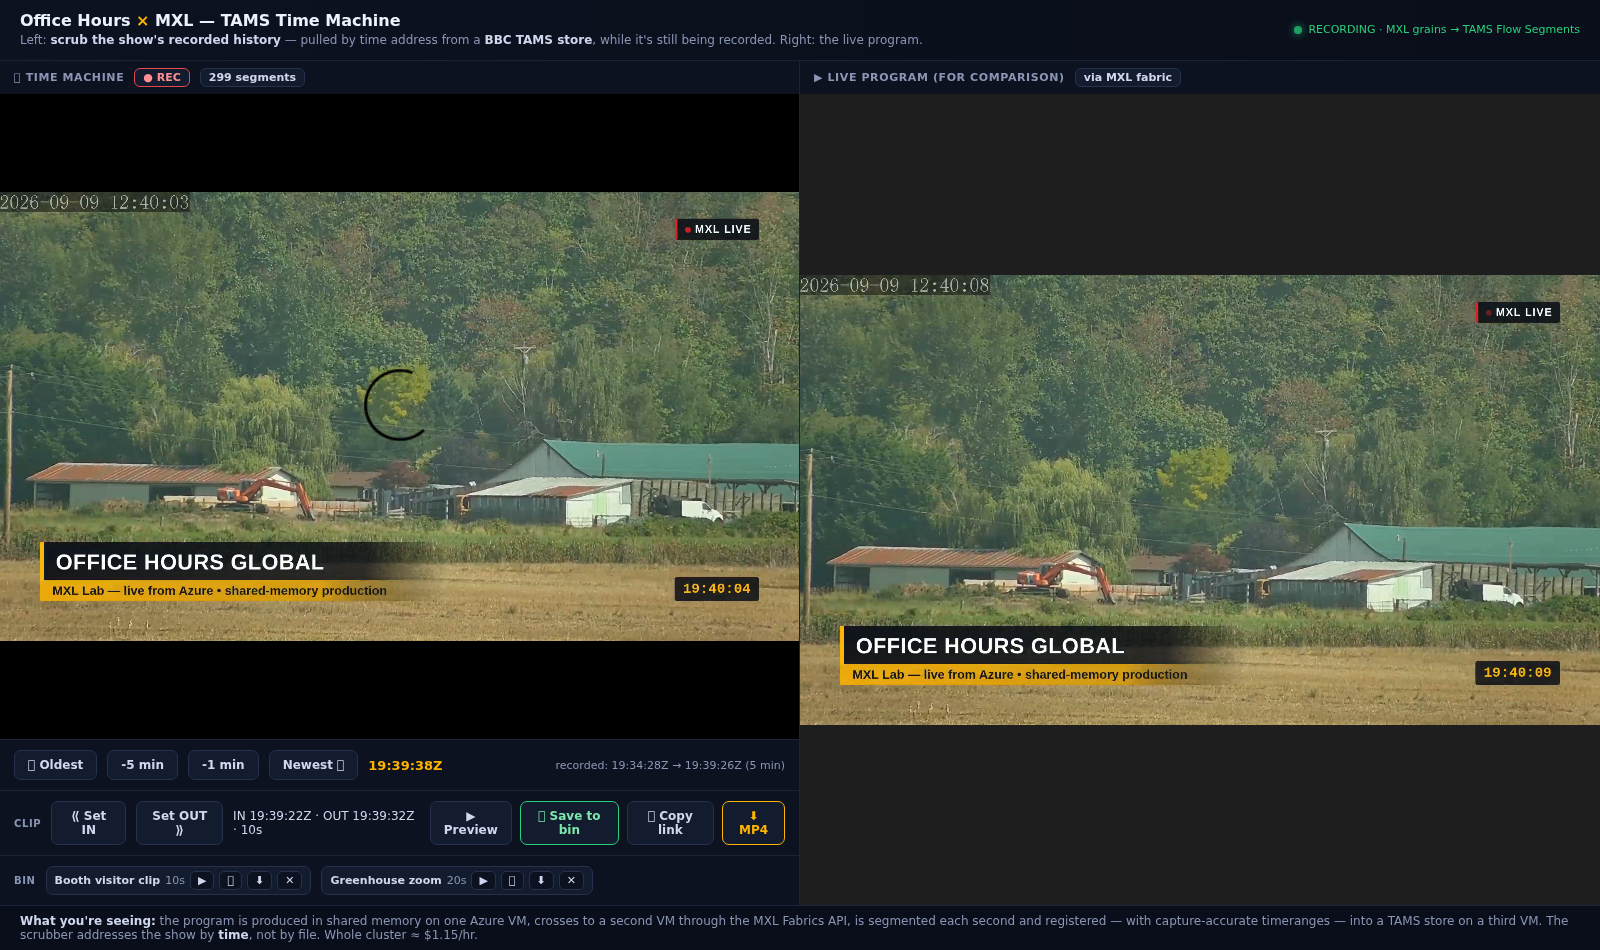
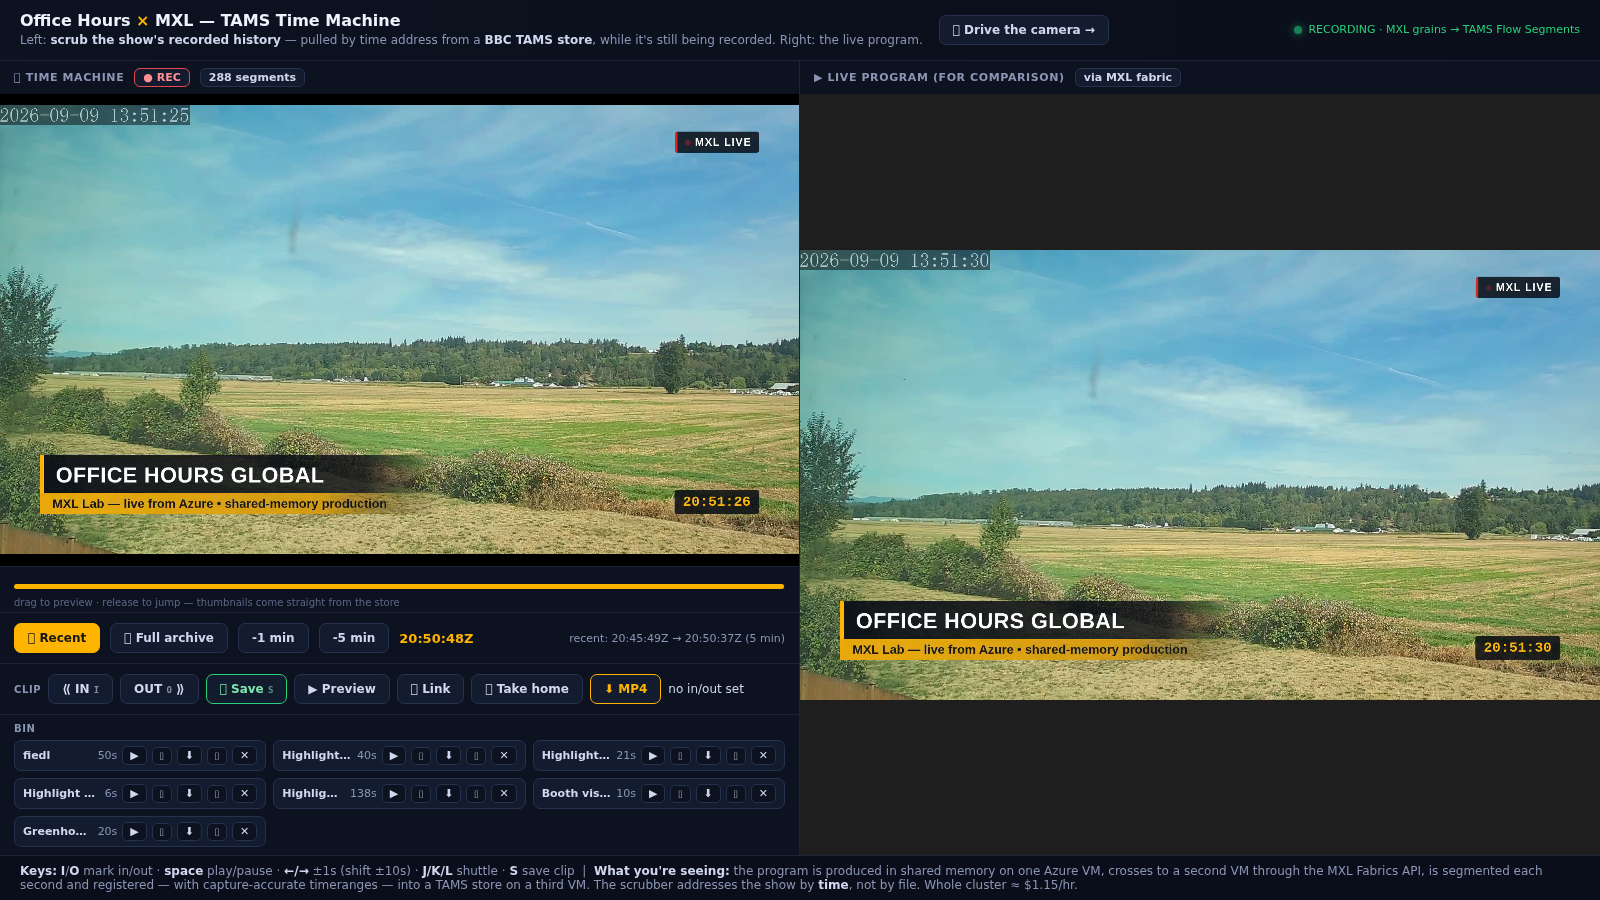
Operator-friendly layout: clustered clip controls, card-grid bin
Claude-Session: https://claude.ai/code/session_01H6Loa8RgY77TaPdFuP9wNC

diff --git a/web/mxl-tams.html b/web/mxl-tams.html
@@ -65,23 +65,21 @@ main{flex:1 1 auto;display:grid;grid-template-columns:1fr 1fr;min-height:0}
       <span id="attime">--:--:--</span>
       <span id="range">loading&hellip;</span>
     </div>
-    <div class="tmbar" style="border-top:1px solid #1a2338">
+    <div class="tmbar" style="border-top:1px solid #1a2338;flex-wrap:wrap;gap:7px">
       <span style="font-size:10px;font-weight:700;letter-spacing:.6px;color:#8b96b5">CLIP</span>
       <button id="setin" title="shortcut: I">&#10218; IN <kbd style="font-size:9px;opacity:.6">I</kbd></button>
       <button id="setout" title="shortcut: O">OUT <kbd style="font-size:9px;opacity:.6">O</kbd> &#10219;</button>
+      <button id="saveclip" disabled style="border-color:#28d17c;color:#7de8ad">&#128190; Save <kbd style="font-size:9px;opacity:.6">S</kbd></button>
+      <button id="prevclip" disabled>&#9654; Preview</button>
+      <button id="fullshow" style="display:none">&#8634; Back</button>
+      <button id="copylink" disabled>&#128279; Link</button>
+      <button id="qrclip" disabled>&#128241; Take home</button>
+      <button id="dlclip" disabled style="border-color:#ffb400;color:#ffb400">&#11015; MP4</button>
       <span id="clipinfo" style="font-size:12px;color:#cfd8ef;font-variant-numeric:tabular-nums">no in/out set</span>
-      <span style="margin-left:auto;display:flex;gap:8px">
-        <button id="prevclip" disabled>&#9654; Preview</button>
-        <button id="fullshow" style="display:none">&#8634; Back</button>
-        <button id="saveclip" disabled style="border-color:#28d17c;color:#7de8ad">&#128190; Save to bin</button>
-        <button id="copylink" disabled>&#128279; Copy link</button>
-        <button id="qrclip" disabled>&#128241; Take it home</button>
-        <button id="dlclip" disabled style="border-color:#ffb400;color:#ffb400">&#11015; MP4</button>
-      </span>
     </div>
-    <div id="bin" class="tmbar" style="border-top:1px solid #1a2338;overflow-x:auto;flex-wrap:nowrap;min-height:46px">
-      <span style="font-size:10px;font-weight:700;letter-spacing:.6px;color:#8b96b5;flex:0 0 auto">BIN</span>
-      <span id="binempty" style="font-size:12px;color:#8b96b5">no saved clips yet &mdash; mark IN/OUT and hit Save</span>
+    <div style="flex:0 0 auto;border-top:1px solid #1a2338;background:#0c1220;padding:8px 14px;max-height:150px;overflow-y:auto">
+      <div style="font-size:10px;font-weight:700;letter-spacing:.6px;color:#8b96b5;margin-bottom:6px">BIN <span id="binempty" style="font-weight:400;text-transform:none;letter-spacing:0">&mdash; no saved clips yet, mark IN/OUT and hit Save</span></div>
+      <div id="bin" style="display:grid;grid-template-columns:repeat(auto-fill,minmax(230px,1fr));gap:7px"></div>
     </div>
   </div>
   <div class="pane">
@@ -249,9 +247,9 @@ main{flex:1 1 auto;display:grid;grid-template-columns:1fr 1fr;min-height:0}
   // ── clip bin (server-side, shared by all visitors) ──
   var bin=document.getElementById('bin'),be=document.getElementById('binempty');
   function binRow(c){
-    var d=document.createElement('span');d.className='binrow';
-    d.style.cssText='flex:0 0 auto;display:flex;align-items:center;gap:5px;background:#131b2e;border:1px solid #26314d;border-radius:7px;padding:4px 8px;font-size:11px';
-    d.innerHTML='<b style="color:#cfd8ef">'+String(c.label).replace(/</g,'&lt;')+'</b><span style="color:#8b96b5">'+(c.out-c.in)+'s</span>';
+    var d=document.createElement('div');d.className='binrow';
+    d.style.cssText='display:flex;align-items:center;gap:5px;background:#131b2e;border:1px solid #26314d;border-radius:7px;padding:5px 8px;font-size:11px;min-width:0';
+    d.innerHTML='<b style="color:#cfd8ef;overflow:hidden;text-overflow:ellipsis;white-space:nowrap;flex:1 1 auto;min-width:0">'+String(c.label).replace(/</g,'&lt;')+'</b><span style="color:#8b96b5;flex:0 0 auto">'+(c.out-c.in)+'s</span>';
     function btn(txt,fn,title){var b=document.createElement('button');b.textContent=txt;b.title=title;b.style.cssText='font-size:11px;padding:2px 7px;background:#0c1220;border:1px solid #26314d;border-radius:5px;color:#cfd8ef;cursor:pointer';b.onclick=fn;d.appendChild(b)}
     btn('▶',function(){inE=c.in;outE=c.out;paintClip();pv.onclick()},'play clip');
     btn('🔗',function(){navigator.clipboard.writeText(location.origin+location.pathname+'?clip='+c.in+'_'+c.out)},'copy share link');
